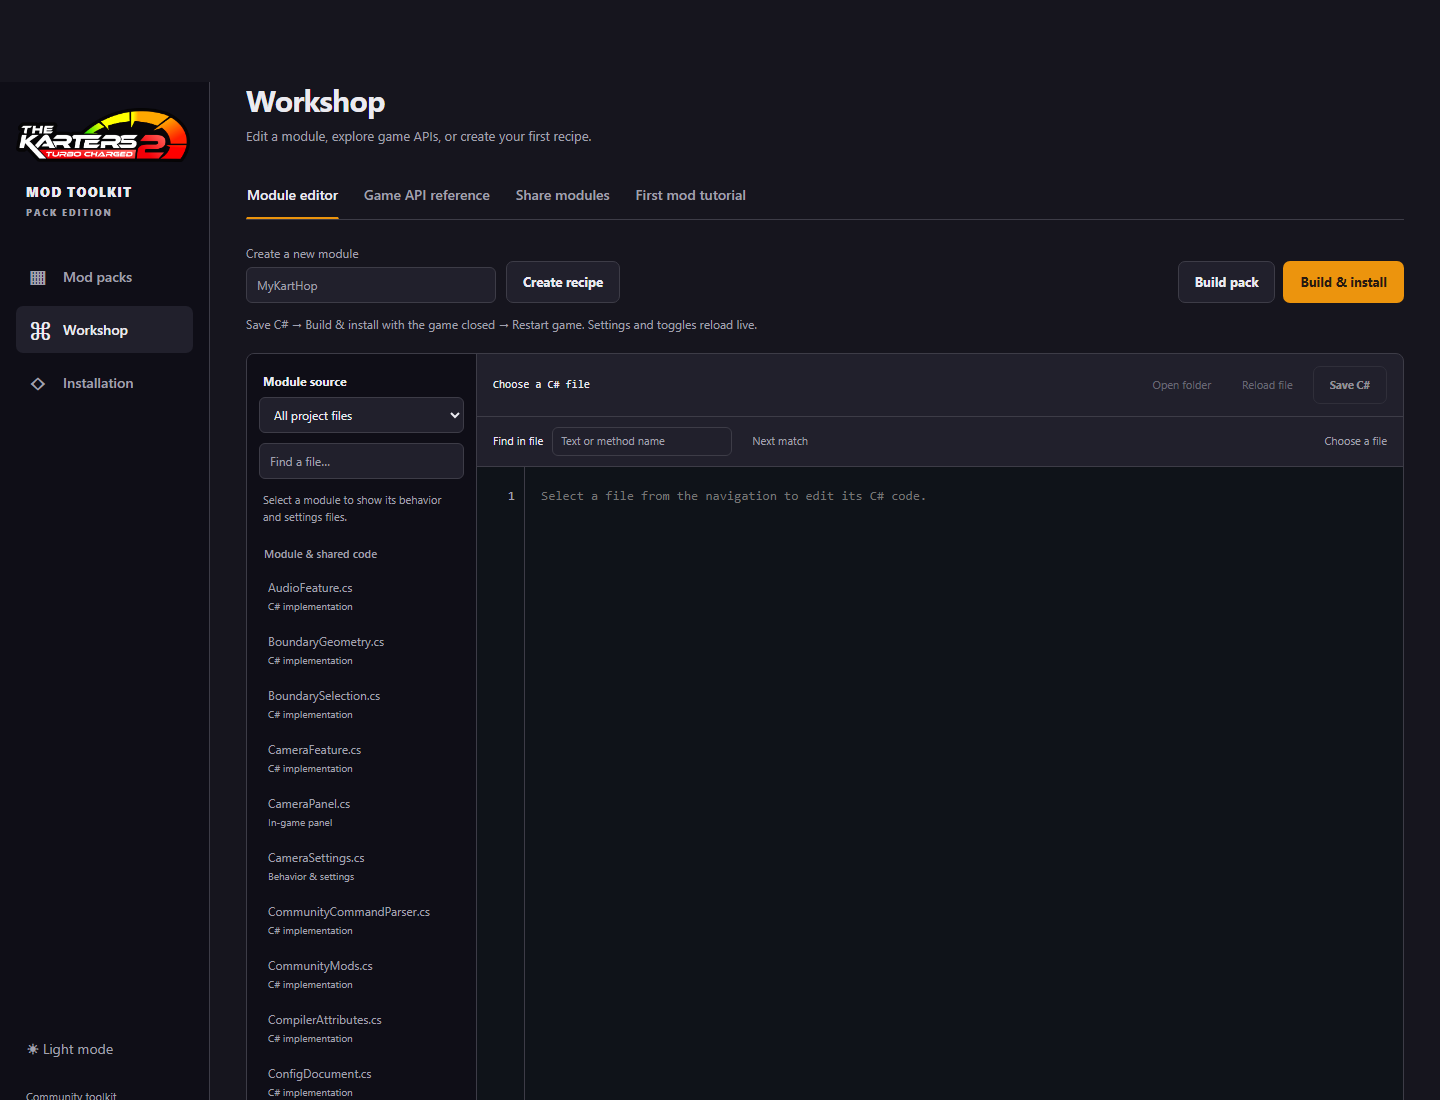
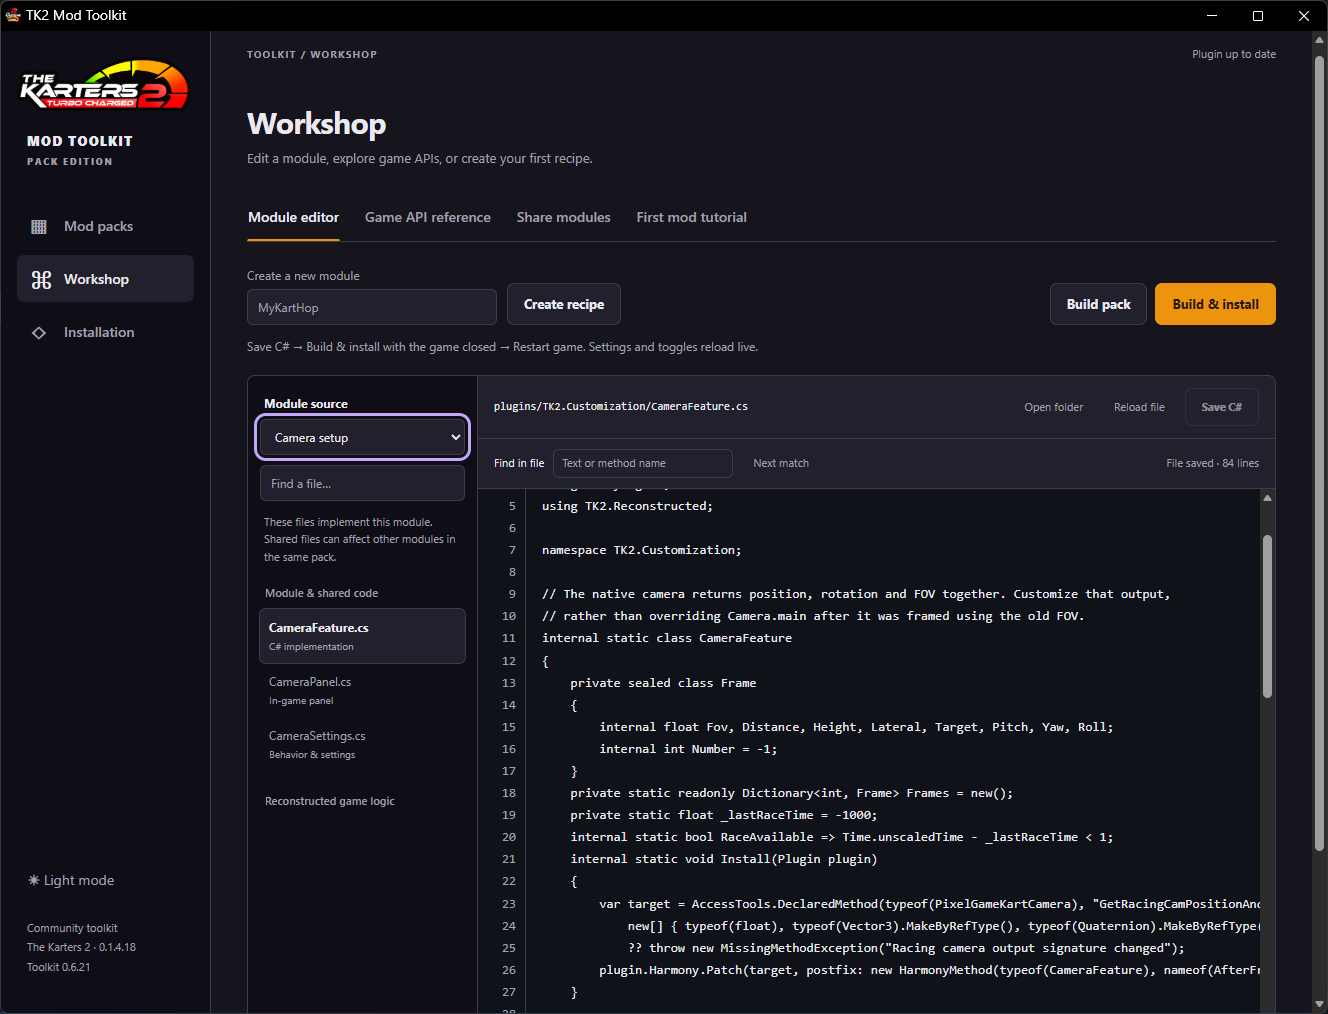
update readme with screenshots

diff --git a/README.md b/README.md
@@ -11,8 +11,9 @@ The supported game build is **0.1.4.18 (Windows x64)**. The validated loader is 
 The screenshots below show the current Mod packs page and Workshop editor. The web UI adapts to the app window; controls and module catalog may change between toolkit builds.
 
 ![Mod packs overview](docs/images/mod-packs.png)
-
-![Workshop editor](docs/images/workshop.png)
+![Workshop 1](docs/images/workshop.png)
+![Workshop 3](docs/images/workshop3.png)
+![Tool Installation](docs/images/installation.png)
 
 ## Install and use the application
 
